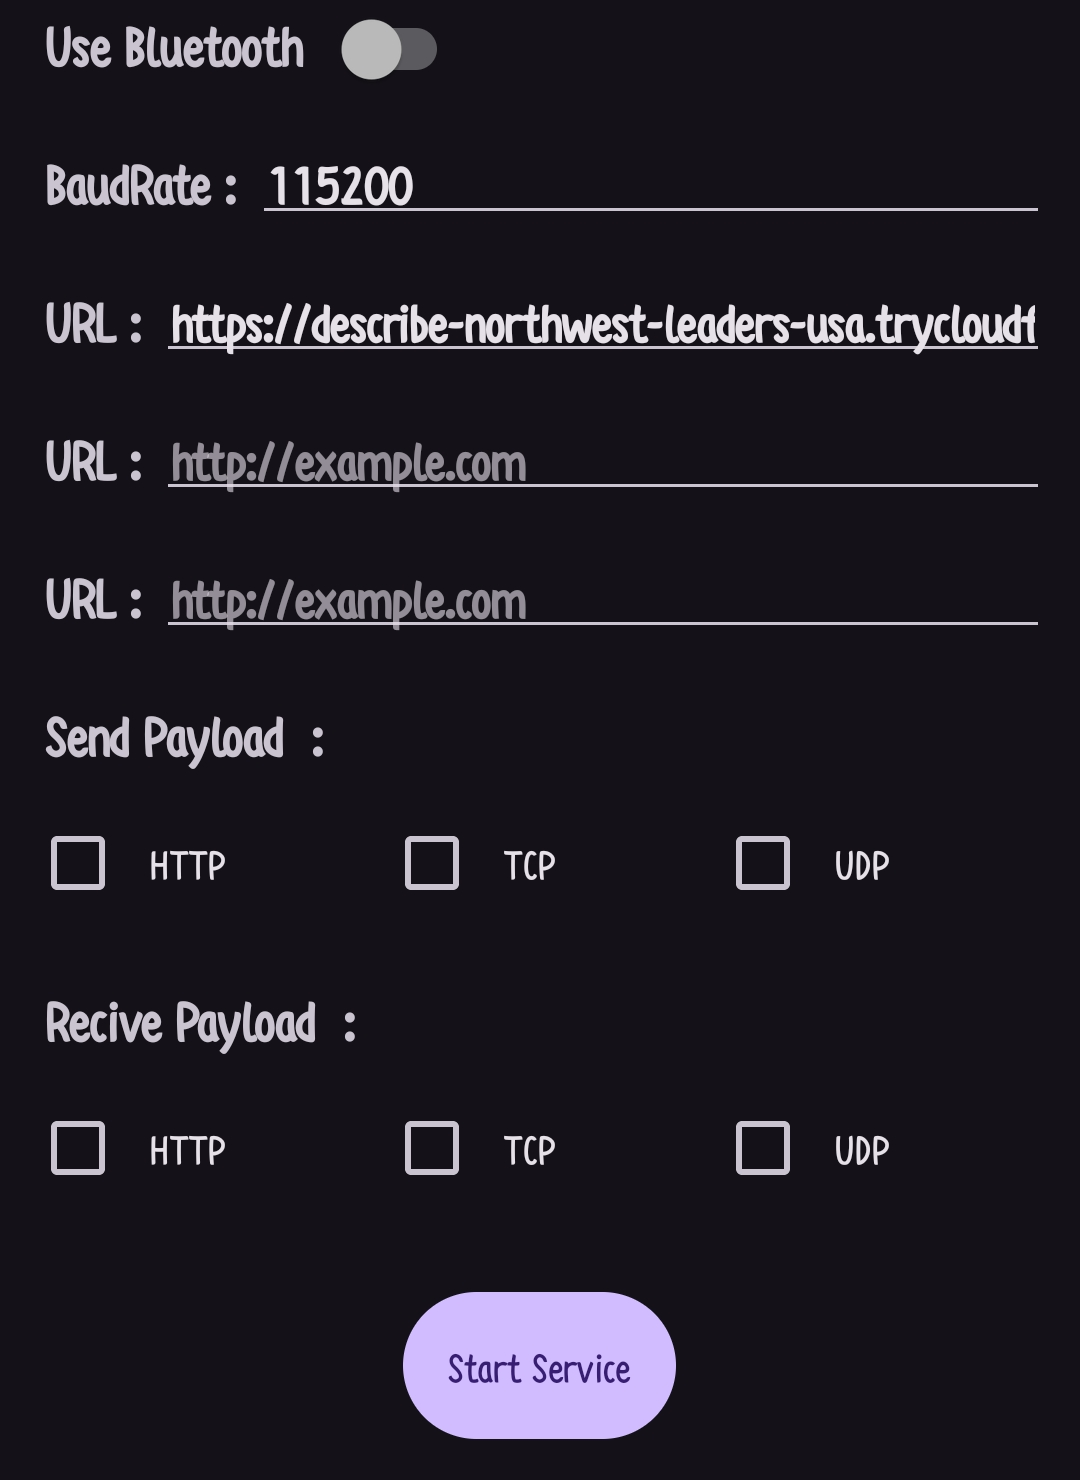
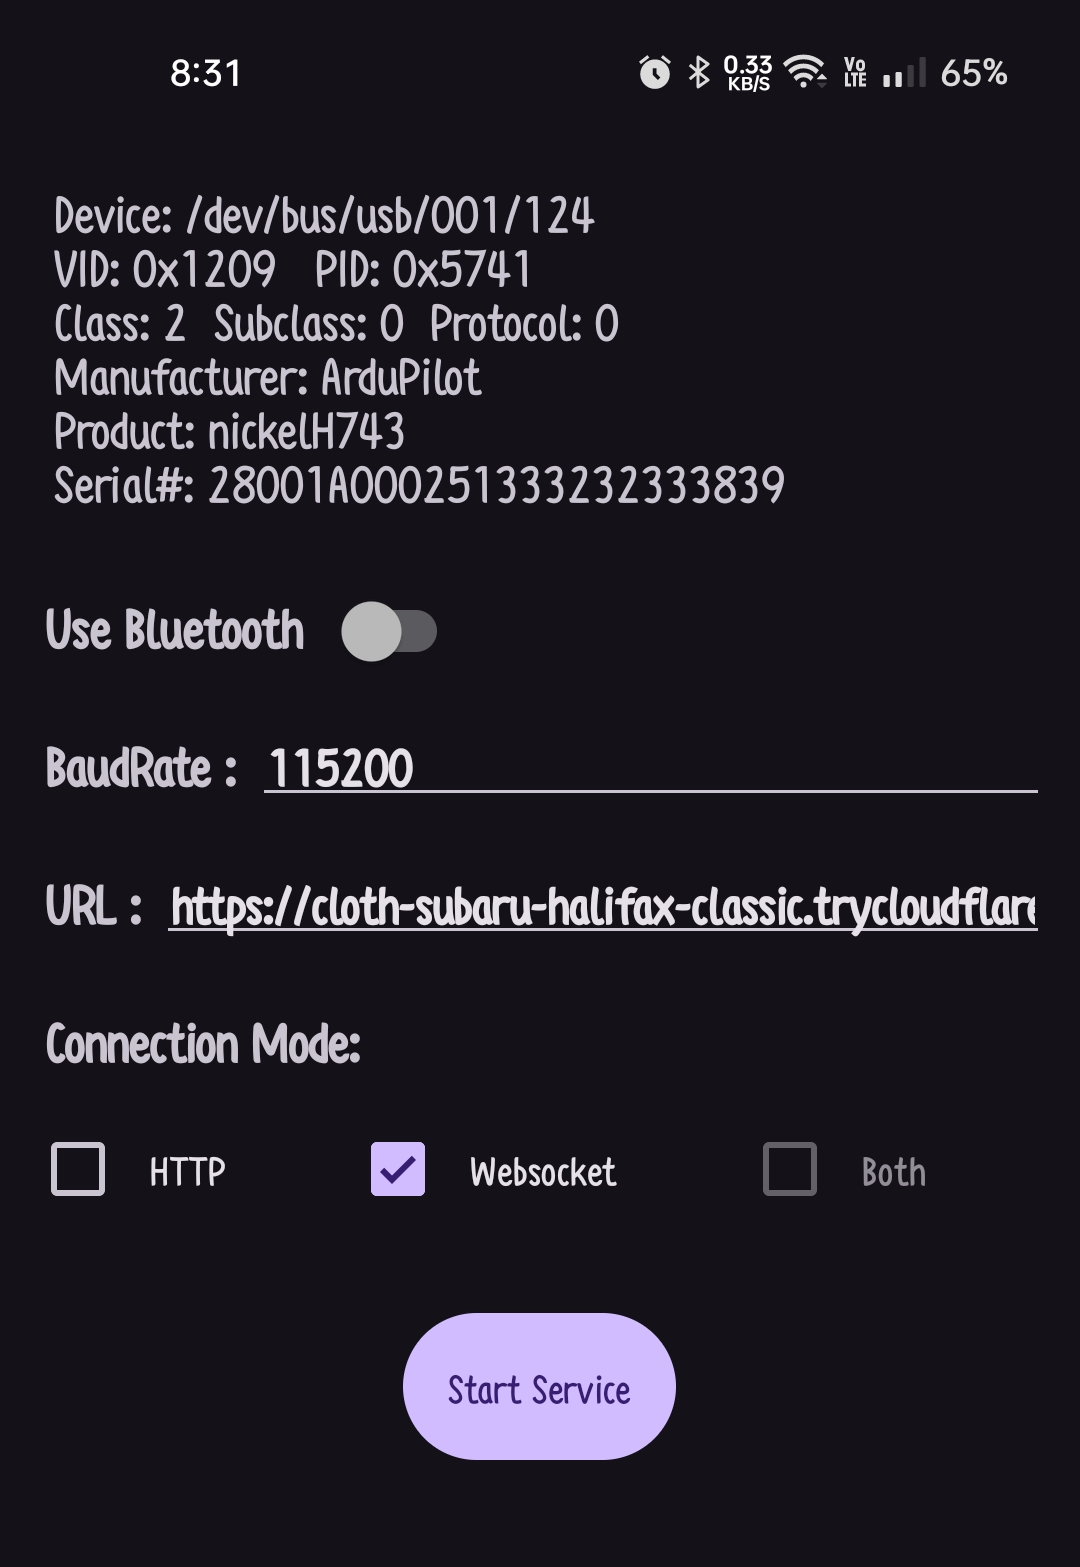
Readme updated

diff --git a/README.md b/README.md
@@ -16,6 +16,22 @@ UART Soft Serial Over Internet (USSOI) – tunnels UART serial communication ove
 *Reason:* Offers reliable USB-to-serial support for a wide range of chipsets, making it easy to talk to UART devices via USB OTG.
 
 ---
+## Data Format
+
+### Recived Data From Ussoi
+```json
+{
+  "mavlink_out": "<base64_encoded_data>",
+  "config": "<config_object>",
+  "encoding": "base64"
+}
+```
+### Transmitting Data Fro Ussoi
+```json
+{
+   "b64":"<base64_encoded_data>"
+}
+
 ## How to Use
 
 ### USB Mode
@@ -23,18 +39,15 @@ UART Soft Serial Over Internet (USSOI) – tunnels UART serial communication ove
 1. **Connect the UART device** via USB-OTG.
 
 2. Confirm the device appears in the **Info** section.  
-   <img src="doc\ussoi_usb_info.jpg" alt="USB Info Screen" width="400"/>
 
-3. Make sure  **Bluetooth** is disabled .
+3. Make sure  **Bluetooth** is disabled for USB-OTG mode .
 
 4. Enter the desired **baud rate**.
 
-5. Enter the target **IP address** (use first field ). 
-   *Note:* The current version supports **HTTP mode** only for sending and receiving data.  
+5. Enter the target **IP address** ( Note url ends with /)
+ 
    <img src="doc\ussoi_para_select.jpg" alt="HTTP Mode Screen" width="400"/>
-
-
-
+   
 
 ## Modify Source Code
 
